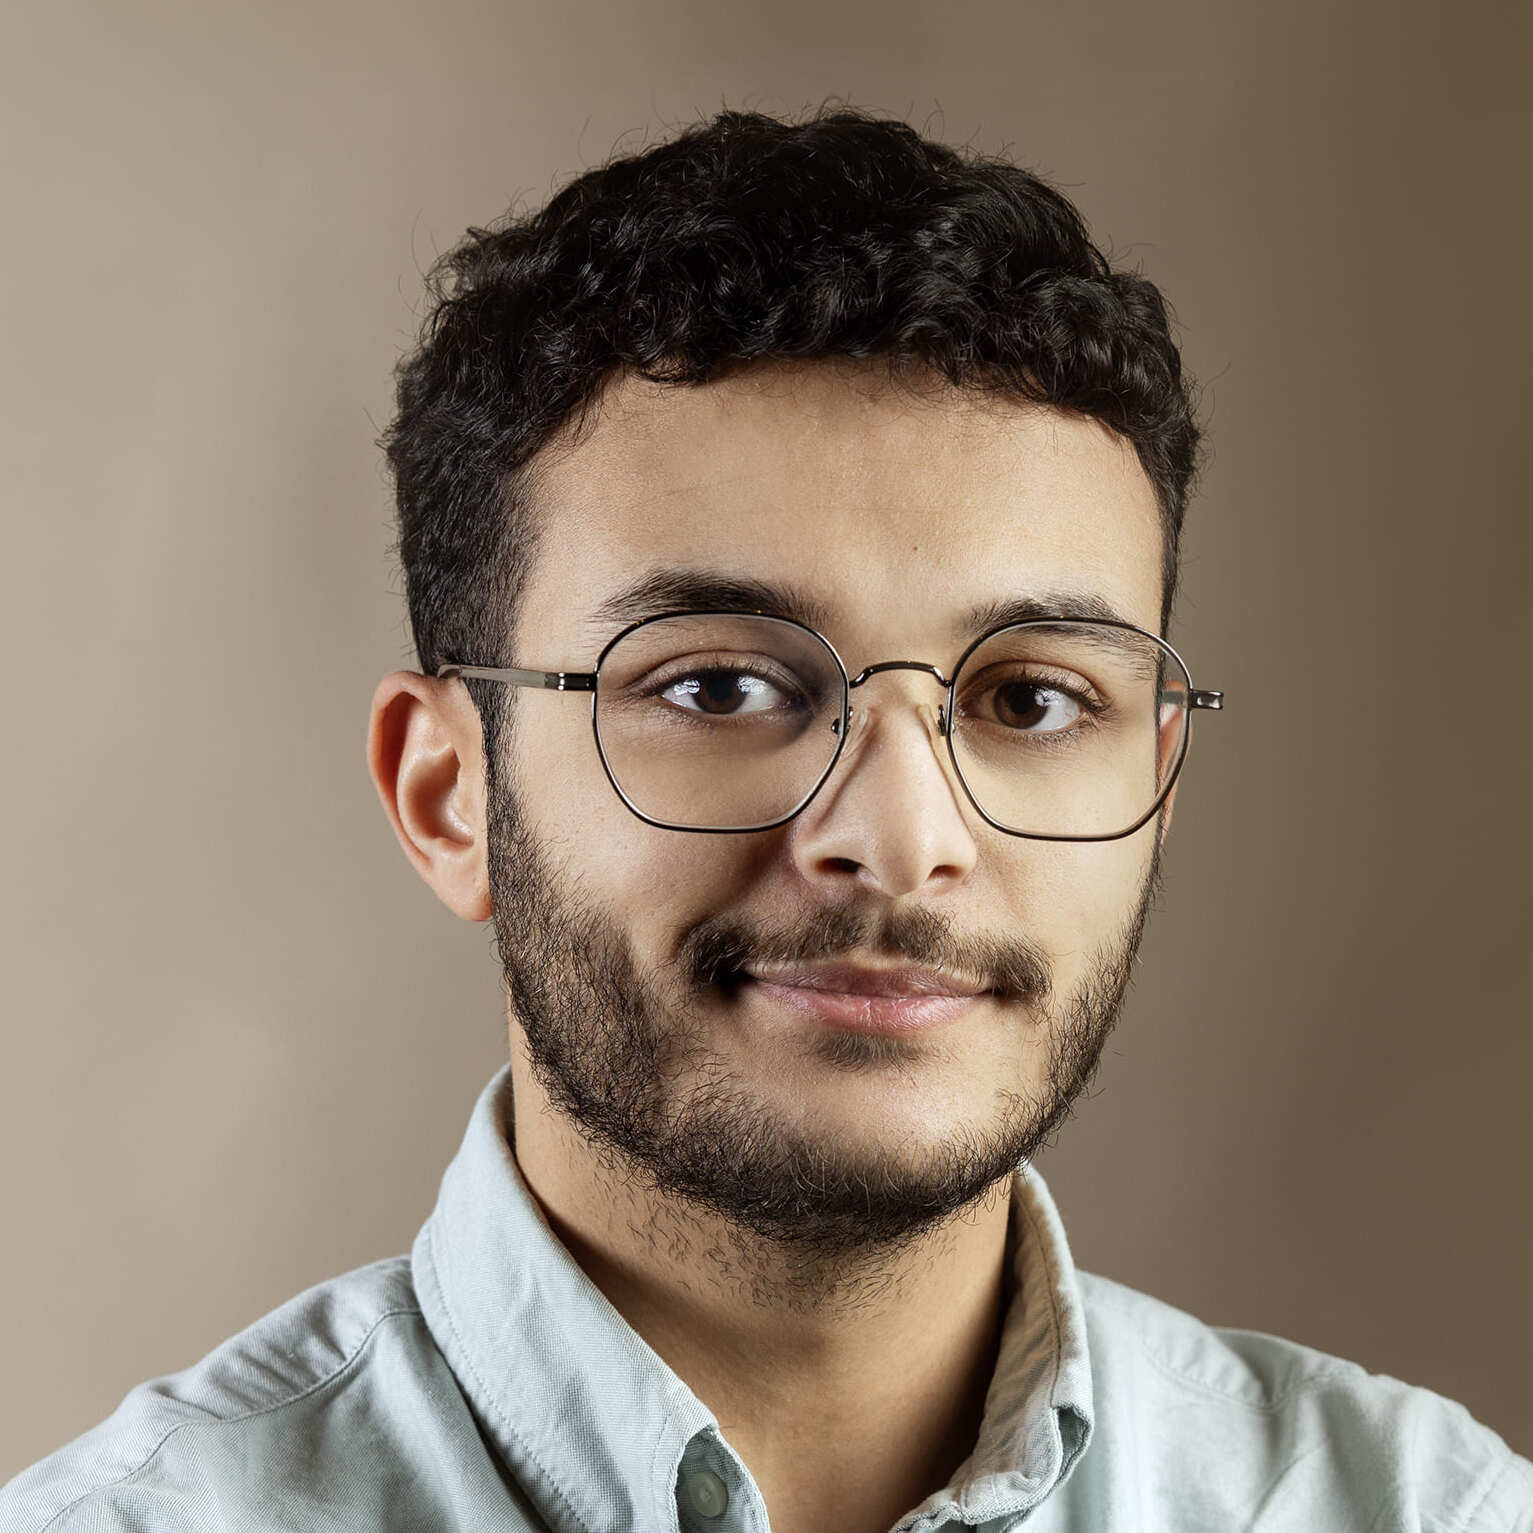
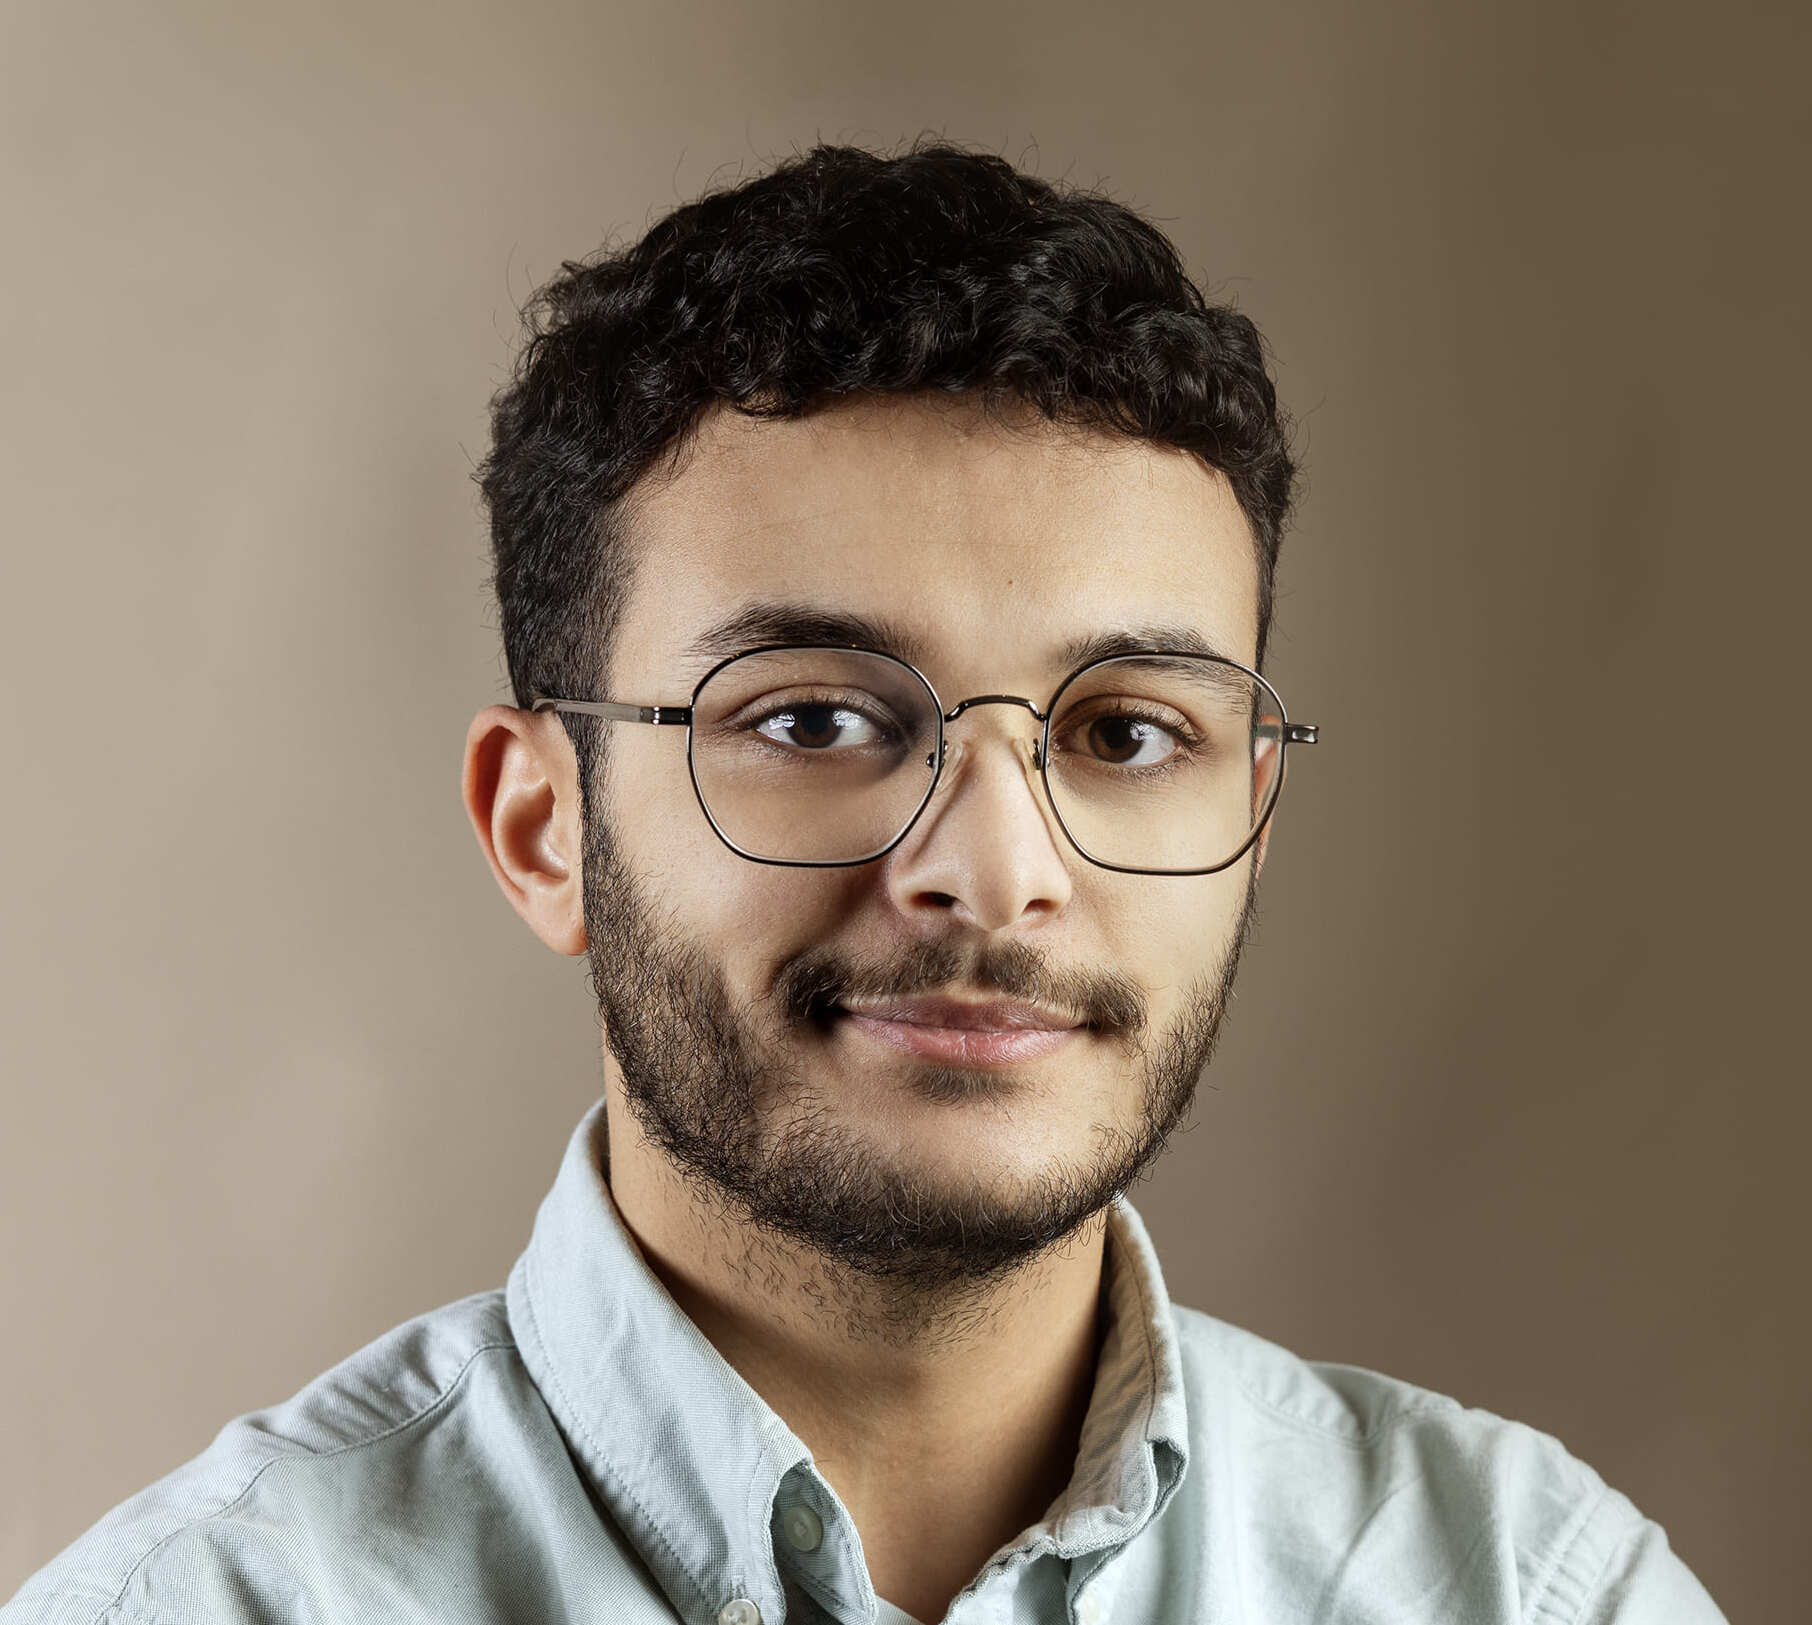
Update homepage

diff --git a/_pages/about.md b/_pages/about.md
@@ -1,56 +1,72 @@
 ---
+
 permalink: /
-title: "Academic Pages is a ready-to-fork GitHub Pages template for academic personal websites"
+title: "About"
 author_profile: true
-redirect_from: 
-  - /about/
-  - /about.html
+redirect_from:
+
+* /about/
+* /about.html
+
 ---
 
-This is the front page of a website that is powered by the [Academic Pages template](https://github.com/academicpages/academicpages.github.io) and hosted on GitHub pages. [GitHub pages](https://pages.github.com) is a free service in which websites are built and hosted from code and data stored in a GitHub repository, automatically updating when a new commit is made to the repository. This template was forked from the [Minimal Mistakes Jekyll Theme](https://mmistakes.github.io/minimal-mistakes/) created by Michael Rose, and then extended to support the kinds of content that academics have: publications, talks, teaching, a portfolio, blog posts, and a dynamically-generated CV. Incidentally, these same features make it a great template for anyone that needs to show off a professional template!
+I am **Younes Boutiyarzist**, an **R&D Engineer** and **PhD Candidate** working at the intersection of **robotics**, **computer vision**, **sensor fusion**, and **autonomous aerospace systems**.
 
- You can fork [this template](https://github.com/academicpages/academicpages.github.io) right now, modify the configuration and Markdown files, add your own PDFs and other content, and have your own site for free, with no ads!
+My research focuses on robust perception and state estimation for real-world autonomous systems. I am particularly interested in visual perception, multi-sensor fusion, camera-radar fusion, motion estimation, 2D–3D geometry, and uncertainty-aware navigation for robotic and aerospace platforms.
 
-A data-driven personal website
-======
-Like many other Jekyll-based GitHub Pages templates, Academic Pages makes you separate the website's content from its form. The content & metadata of your website are in structured Markdown files, while various other files constitute the theme, specifying how to transform that content & metadata into HTML pages. You keep these various Markdown (.md), YAML (.yml), HTML, and CSS files in a public GitHub repository. Each time you commit and push an update to the repository, the [GitHub pages](https://pages.github.com/) service creates static HTML pages based on these files, which are hosted on GitHub's servers free of charge.
+I am currently an **R&D Engineer at Collins Aerospace** in Blagnac, France, and a **PhD Candidate at ISAE-SUPAERO** in Toulouse. My work involves developing and validating perception and estimation algorithms using camera, radar, IMU, GNSS, and LiDAR data, with applications to drone, helicopter, and autonomous aerospace systems.
 
-Many of the features of dynamic content management systems (like Wordpress) can be achieved in this fashion, using a fraction of the computational resources and with far less vulnerability to hacking and DDoSing. You can also modify the theme to your heart's content without touching the content of your site. If you get to a point where you've broken something in Jekyll/HTML/CSS beyond repair, your Markdown files describing your talks, publications, etc. are safe. You can rollback the changes or even delete the repository and start over - just be sure to save the Markdown files! You can also write scripts that process the structured data on the site, such as [this one](https://github.com/academicpages/academicpages.github.io/blob/master/talkmap.ipynb) that analyzes metadata in pages about talks to display [a map of every location you've given a talk](https://academicpages.github.io/talkmap.html).
+[Download my CV](/files/cv.pdf)
 
-For those users that need more advanced functionality, the template also supports the following popular tools:
-- [MathJax](https://www.mathjax.org/) for mathematical equations
-- [Mermaid](https://mermaid.js.org/) for diagraming
-- [Plotly](https://plotly.com/javascript/) for plotting
+# Research Interests
 
-Getting started
-======
-1. Register a GitHub account if you don't have one and confirm your e-mail (required!)
-1. Fork [this template](https://github.com/academicpages/academicpages.github.io) by clicking the "Use this template" button in the top right. 
-1. Go to the repository's settings (rightmost item in the tabs that start with "Code", should be below "Unwatch"). Rename the repository "[your GitHub username].github.io", which will also be your website's URL.
-1. Set site-wide configuration and create content & metadata (see below -- also see [this set of diffs](https://archive.is/3TPas) showing what files were changed to set up [an example site](https://getorg-testacct.github.io) for a user with the username "getorg-testacct")
-1. Upload any files (like PDFs, .zip files, etc.) to the files/ directory. They will appear at https://[your GitHub username].github.io/files/example.pdf.  
-1. Check status by going to the repository settings, in the "GitHub pages" section
+* Robotics and autonomous systems
+* Visual perception for navigation
+* State estimation under uncertainty
+* Multi-sensor fusion
+* Camera-radar fusion
+* Visual-inertial odometry
+* Camera pose estimation
+* Camera calibration
+* 2D–3D registration and projective geometry
+* Kalman filtering and probabilistic modeling
+* Nonlinear optimization
+* Real-world robotic and aerospace experimentation
 
-Site-wide configuration
-------
-The main configuration file for the site is in the base directory in [_config.yml](https://github.com/academicpages/academicpages.github.io/blob/master/_config.yml), which defines the content in the sidebars and other site-wide features. You will need to replace the default variables with ones about yourself and your site's github repository. The configuration file for the top menu is in [_data/navigation.yml](https://github.com/academicpages/academicpages.github.io/blob/master/_data/navigation.yml). For example, if you don't have a portfolio or blog posts, you can remove those items from that navigation.yml file to remove them from the header. 
+# Current Position
 
-Create content & metadata
-------
-For site content, there is one Markdown file for each type of content, which are stored in directories like _publications, _talks, _posts, _teaching, or _pages. For example, each talk is a Markdown file in the [_talks directory](https://github.com/academicpages/academicpages.github.io/tree/master/_talks). At the top of each Markdown file is structured data in YAML about the talk, which the theme will parse to do lots of cool stuff. The same structured data about a talk is used to generate the list of talks on the [Talks page](https://academicpages.github.io/talks), each [individual page](https://academicpages.github.io/talks/2012-03-01-talk-1) for specific talks, the talks section for the [CV page](https://academicpages.github.io/cv), and the [map of places you've given a talk](https://academicpages.github.io/talkmap.html) (if you run this [python file](https://github.com/academicpages/academicpages.github.io/blob/master/talkmap.py) or [Jupyter notebook](https://github.com/academicpages/academicpages.github.io/blob/master/talkmap.ipynb), which creates the HTML for the map based on the contents of the _talks directory).
+**R&D Engineer**
+**Collins Aerospace**, Blagnac, France
 
-**Markdown generator**
+**PhD Candidate**
+**ISAE-SUPAERO**, Toulouse, France
 
-The repository includes [a set of Jupyter notebooks](https://github.com/academicpages/academicpages.github.io/tree/master/markdown_generator
-) that converts a CSV containing structured data about talks or presentations into individual Markdown files that will be properly formatted for the Academic Pages template. The sample CSVs in that directory are the ones I used to create my own personal website at stuartgeiger.com. My usual workflow is that I keep a spreadsheet of my publications and talks, then run the code in these notebooks to generate the Markdown files, then commit and push them to the GitHub repository.
+My PhD focuses on AI-based perception, state estimation, and uncertainty-aware algorithms for autonomous aerospace systems. The work is conducted in partnership with Collins Aerospace and ISAE-SUPAERO.
 
-How to edit your site's GitHub repository
-------
-Many people use a git client to create files on their local computer and then push them to GitHub's servers. If you are not familiar with git, you can directly edit these configuration and Markdown files directly in the github.com interface. Navigate to a file (like [this one](https://github.com/academicpages/academicpages.github.io/blob/master/_talks/2012-03-01-talk-1.md) and click the pencil icon in the top right of the content preview (to the right of the "Raw | Blame | History" buttons). You can delete a file by clicking the trashcan icon to the right of the pencil icon. You can also create new files or upload files by navigating to a directory and clicking the "Create new file" or "Upload files" buttons. 
+# Research and Engineering Work
 
-Example: editing a Markdown file for a talk
-![Editing a Markdown file for a talk](/images/editing-talk.png)
+My current work includes the development of robust multi-sensor estimation pipelines for autonomous systems. I work with heterogeneous sensors such as cameras, radar, IMU, GNSS, and LiDAR, with a strong focus on robustness, uncertainty modeling, and integration constraints.
 
-For more info
-------
-More info about configuring Academic Pages can be found in [the guide](https://academicpages.github.io/markdown/), the [growing wiki](https://github.com/academicpages/academicpages.github.io/wiki), and you can always [ask a question on GitHub](https://github.com/academicpages/academicpages.github.io/discussions). The [guides for the Minimal Mistakes theme](https://mmistakes.github.io/minimal-mistakes/docs/configuration/) (which this theme was forked from) might also be helpful.
+I also develop camera-radar fusion methods for anti-collision and navigation-related applications, including ACAS X-related contexts. My work combines computer vision, probabilistic modeling, Kalman-filter-related methods, nonlinear optimization, and real-world validation.
+
+I have experience designing synthetic datasets and conducting real-world drone acquisition campaigns to evaluate algorithms under realistic operating conditions.
+
+# Background
+
+Before my current position, I worked at **Thales LAS** on deep learning methods for image restoration on near-infrared and infrared imaging systems. I also worked at **TéSA Laboratory** on Bayesian geometric modeling for partial and noisy LiDAR point clouds, with robust outlier handling.
+
+I graduated from **ENSEEIHT** in Toulouse, France, with an engineering degree specializing in signal processing, machine learning, computer vision, and applied mathematics.
+
+# Technical Skills
+
+* **Programming:** Python, C++, MATLAB, Linux, Git
+* **Robotics and autonomy:** navigation, perception, sensor fusion, real-world experimentation
+* **Computer vision:** camera calibration, image processing, 2D–3D geometry, pose estimation
+* **Estimation:** state estimation, Kalman filtering, Bayesian estimation, probabilistic modeling
+* **Optimization:** nonlinear optimization, bundle adjustment, robust estimation
+* **Sensors:** camera, radar, IMU, GNSS, LiDAR
+* **AI:** machine learning, deep learning, model evaluation
+
+# Contact
+
+You can contact me by email or find more information through the links in the sidebar.